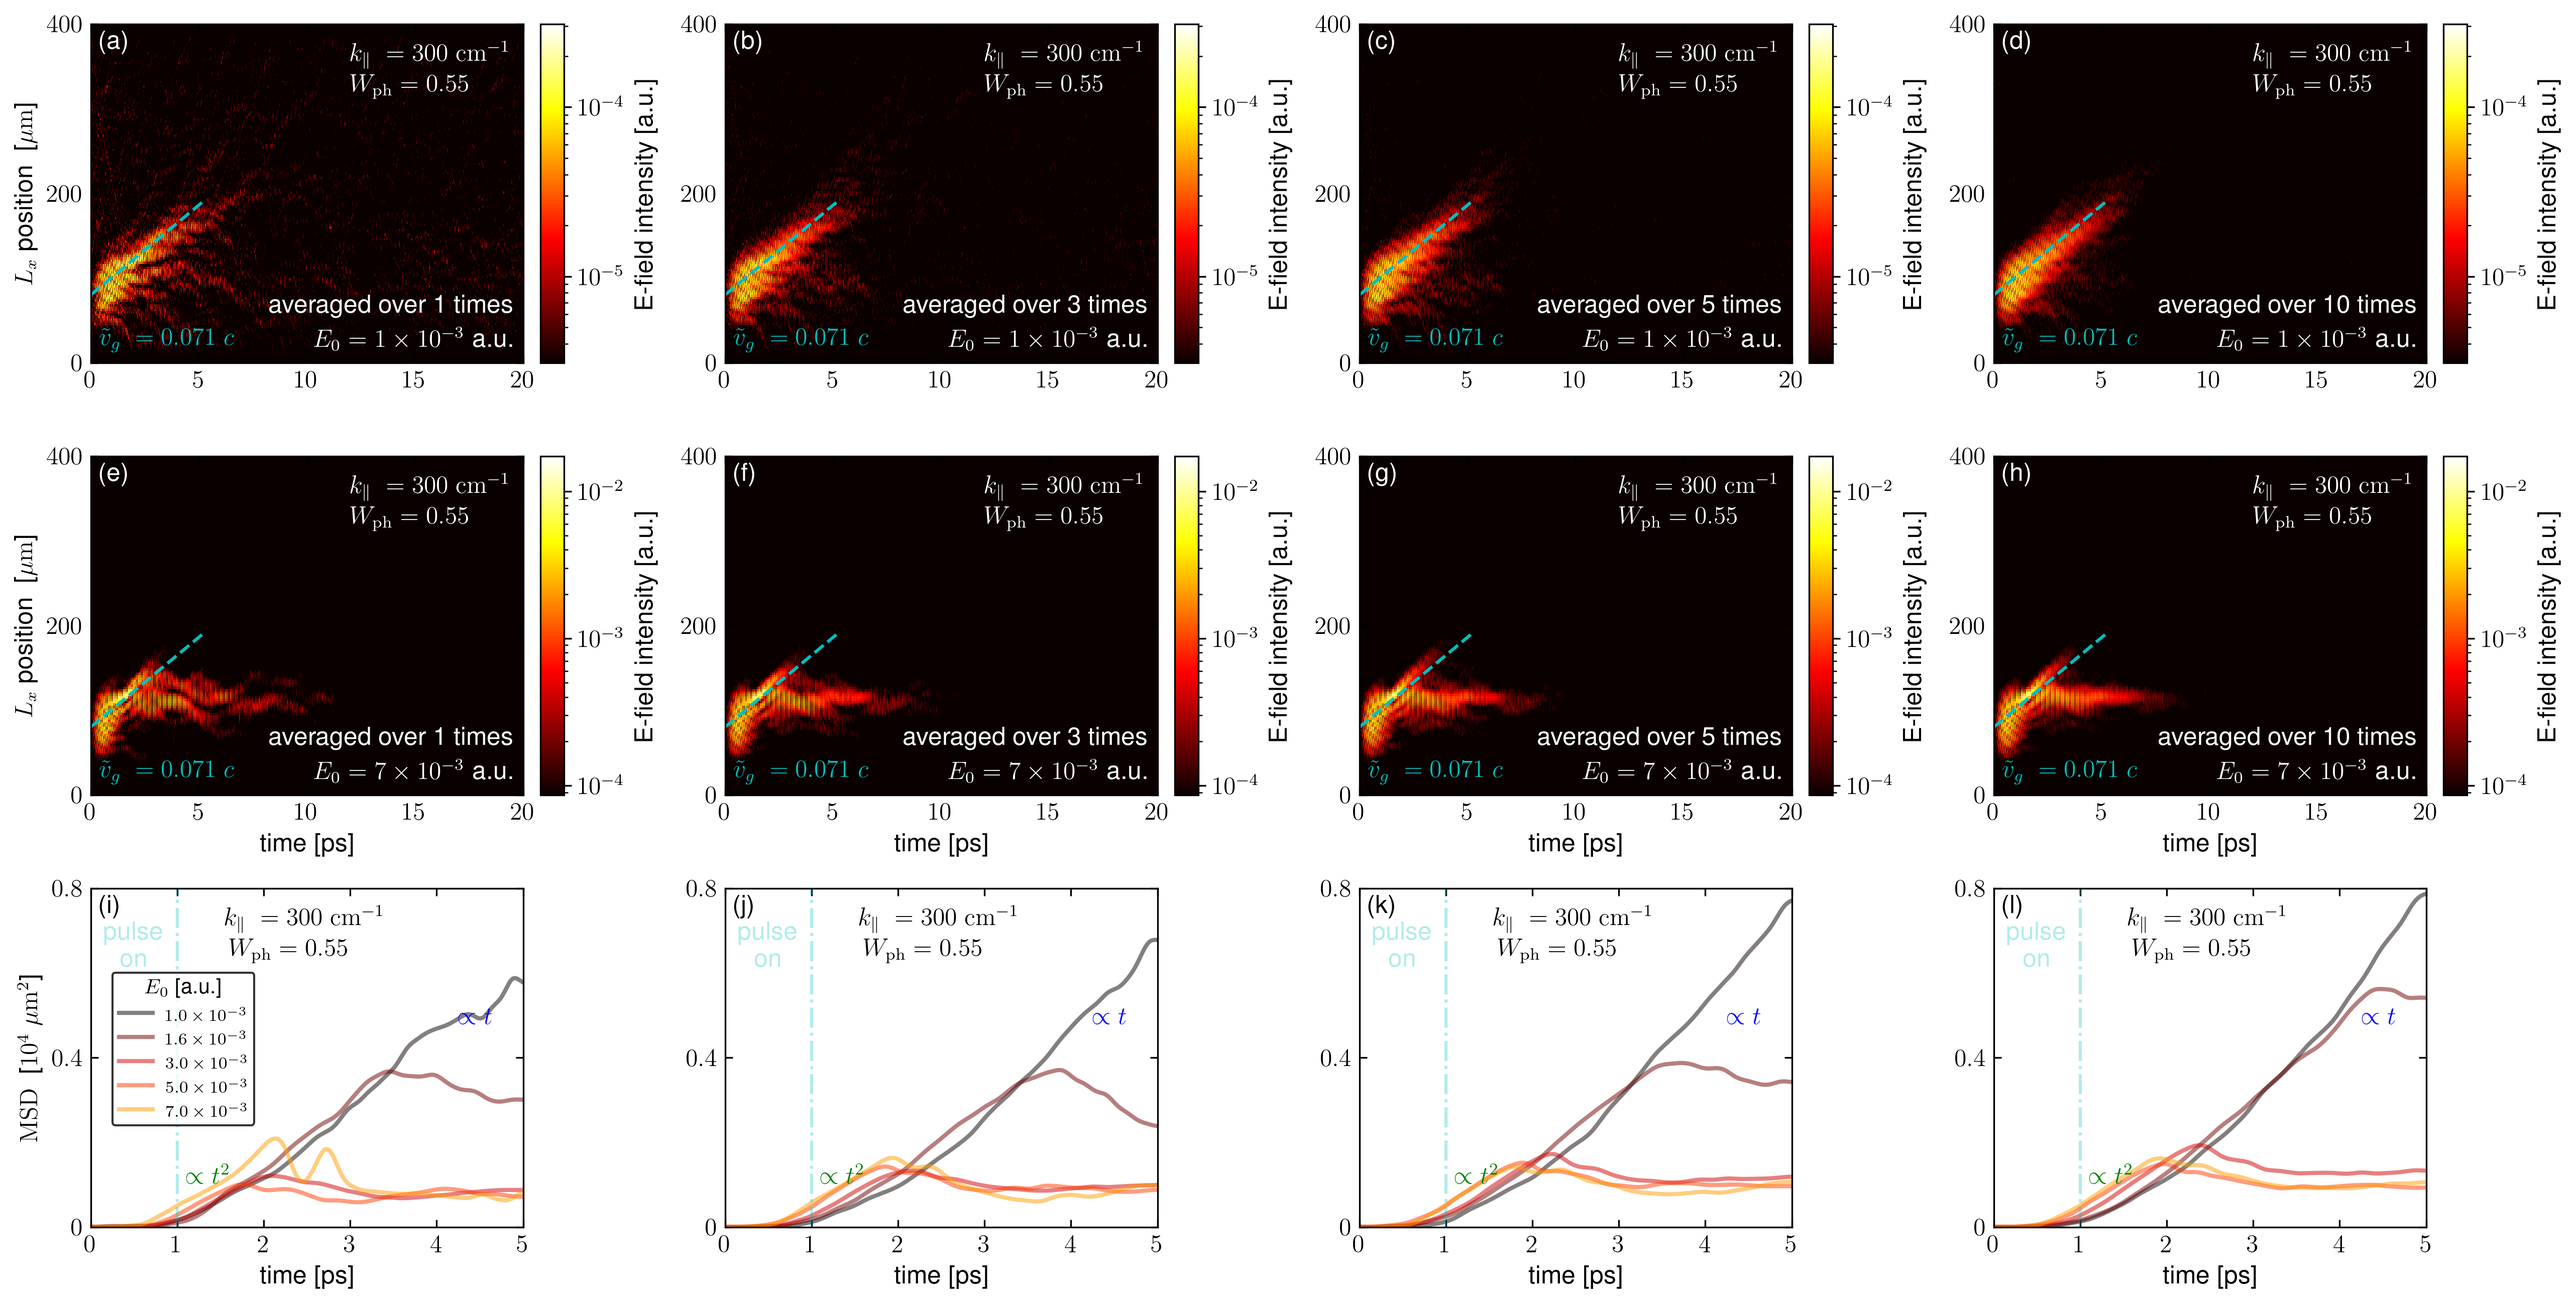
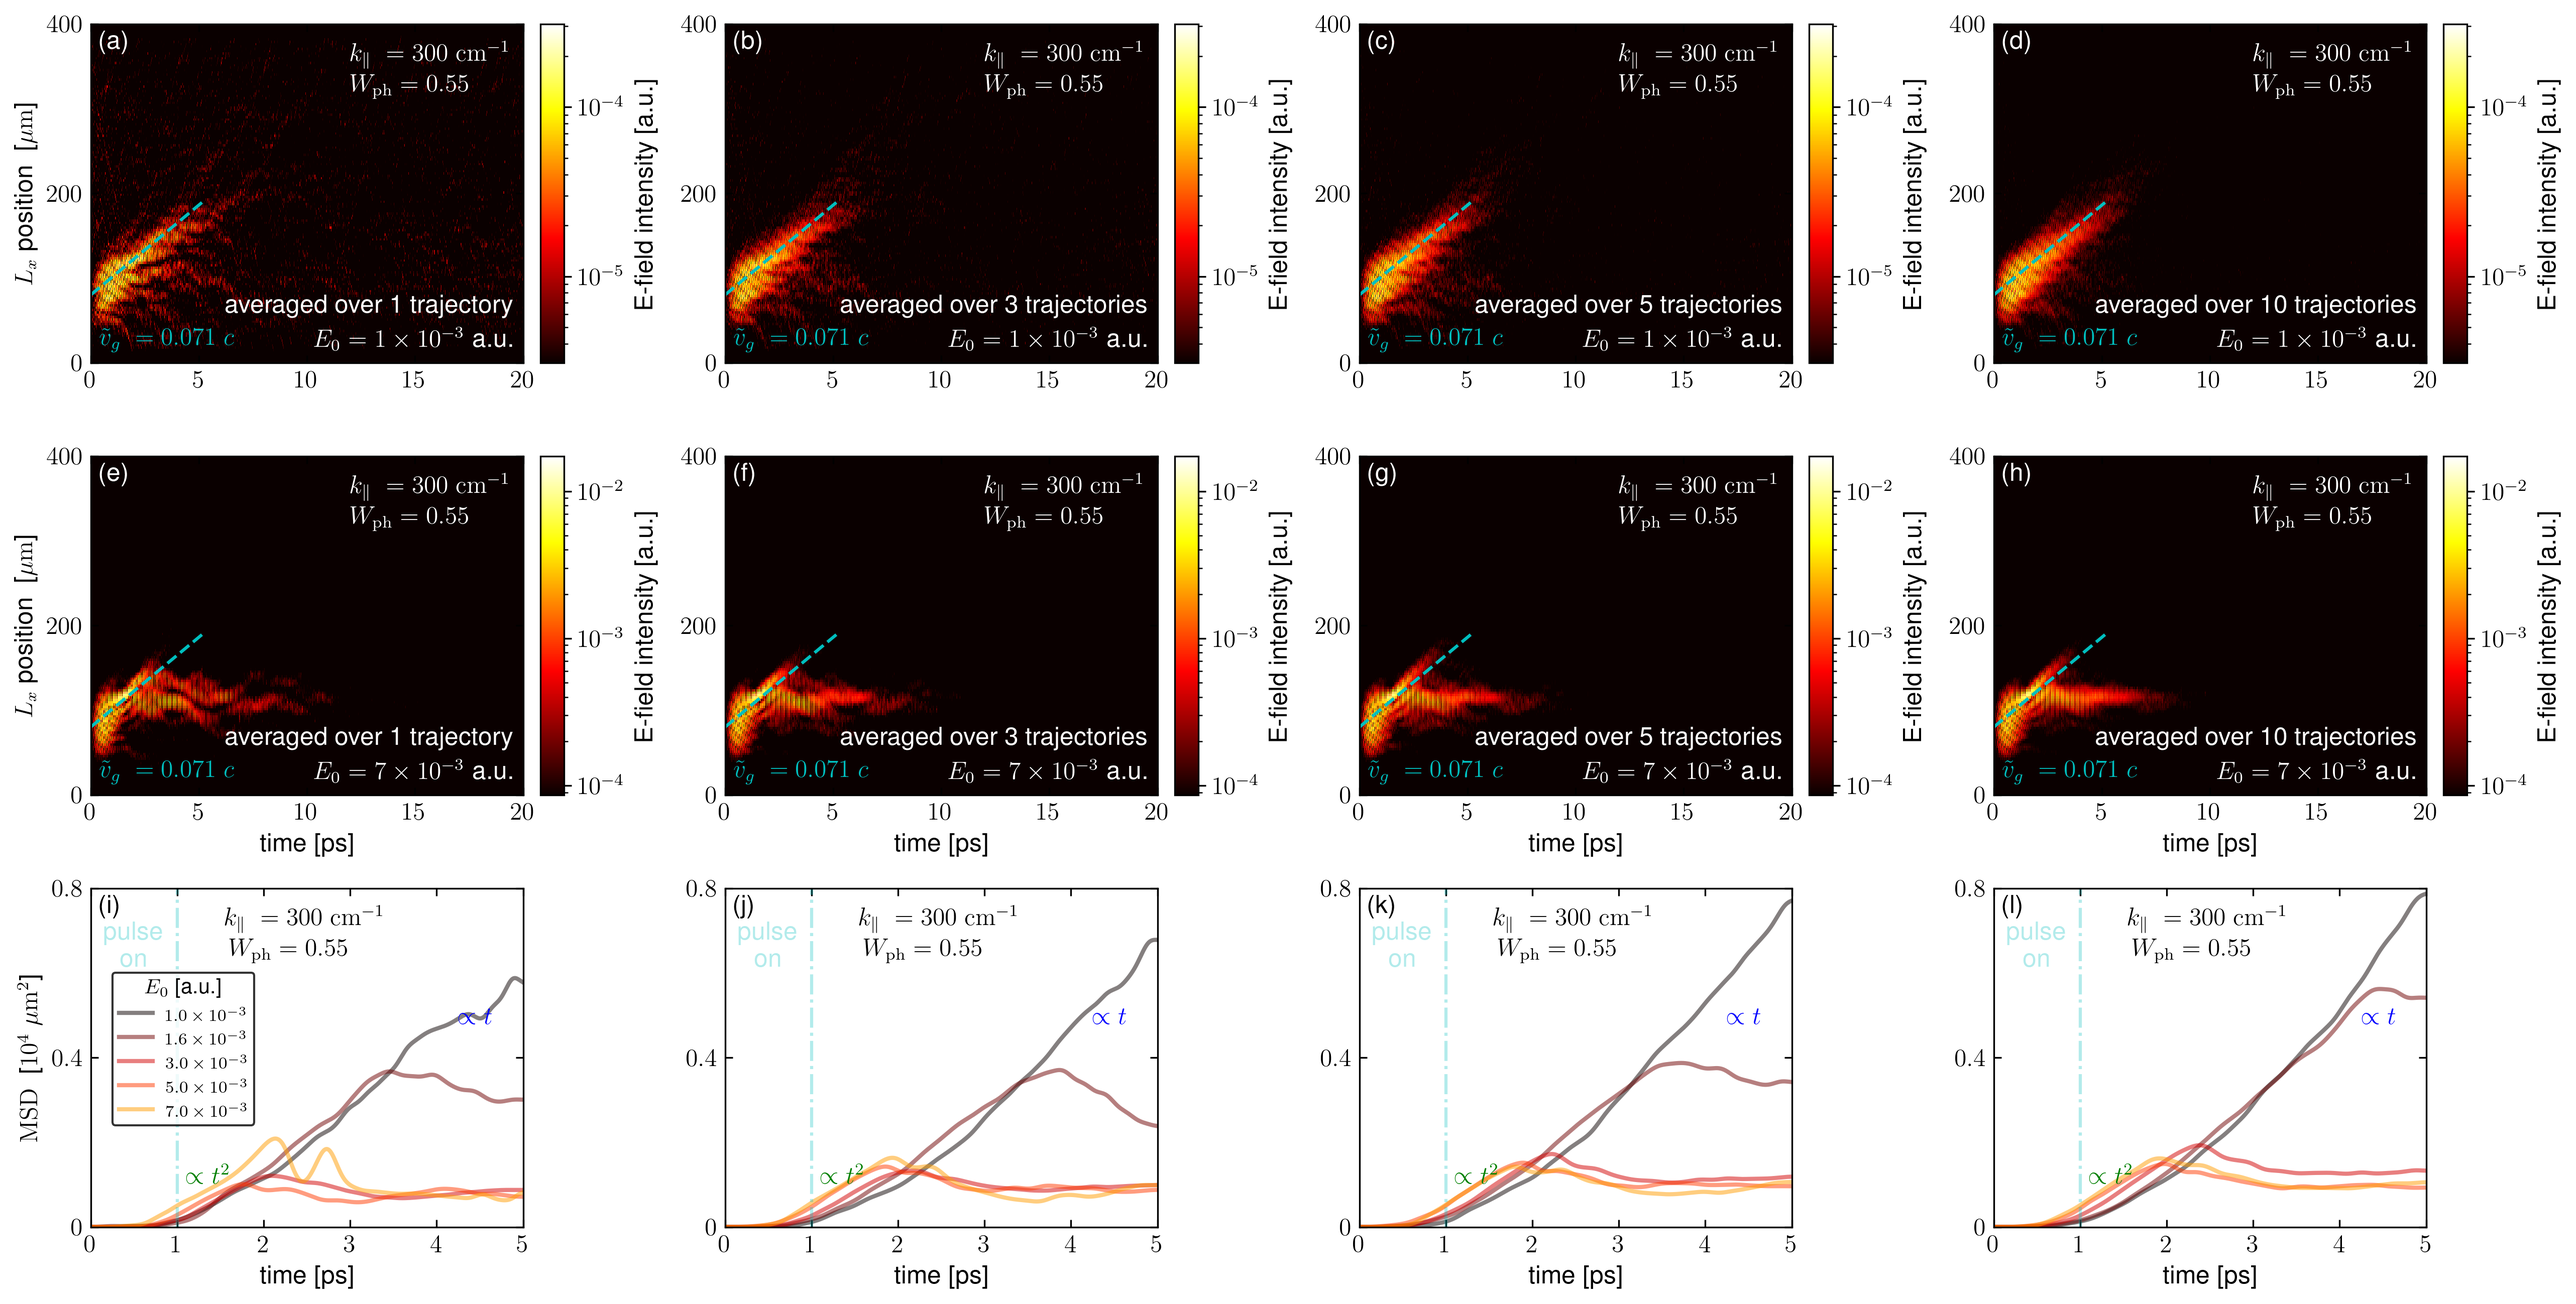
Update convergence figure and plotting script

diff --git a/vsc_transport_2026/plotting_scripts/plotting.py b/vsc_transport_2026/plotting_scripts/plotting.py
@@ -1136,7 +1136,8 @@ def plot_convergence():
             axes[y0, x0].text(0.98, 0.1, amp_list[y0], transform=axes[y0, x0].transAxes, fontsize=12, fontweight='bold', va='top', ha='right', color="w")
             axes[y0, x0].text(0.02, 0.98, label_list[y0][x0], transform=axes[y0, x0].transAxes, fontsize=12, fontweight='bold', va='top', ha='left', color="w")
             axes[y0, x0].text(0.02, 0.1, r"$\tilde{v}_g \ = \ $"+r"$0.071 \ c$", transform=axes[y0, x0].transAxes, fontsize=12, fontweight='bold', va='top', ha='left', color="c")
-            axes[y0, x0].text(0.98, 0.2, f"averaged over {repeat_list[x0]} times", transform=axes[y0, x0].transAxes, fontsize=12, fontweight='bold', va='top', ha='right', color="w")
+            average_text = f"averaged over {repeat_list[x0]} trajectory" if x0==0 else f"averaged over {repeat_list[x0]} trajectories"
+            axes[y0, x0].text(0.98, 0.2, average_text, transform=axes[y0, x0].transAxes, fontsize=12, fontweight='bold', va='top', ha='right', color="w")
             cbar_ax = axes[y0, x0].inset_axes([1.04, 0.0, 0.055, 1.0])
             cbar = axes[y0, x0].figure.colorbar(pos, cax=cbar_ax)
             cbar.ax.tick_params(labelsize=12)
